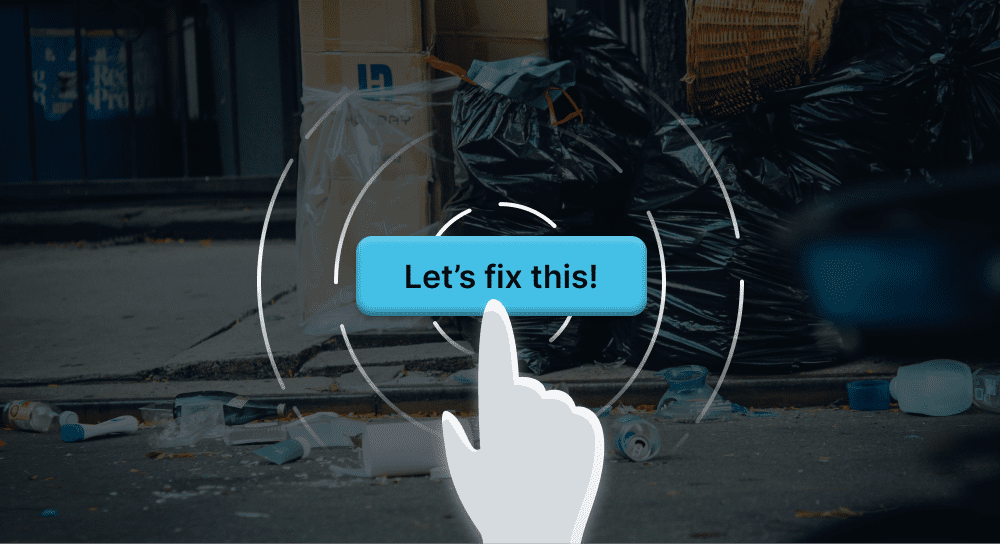
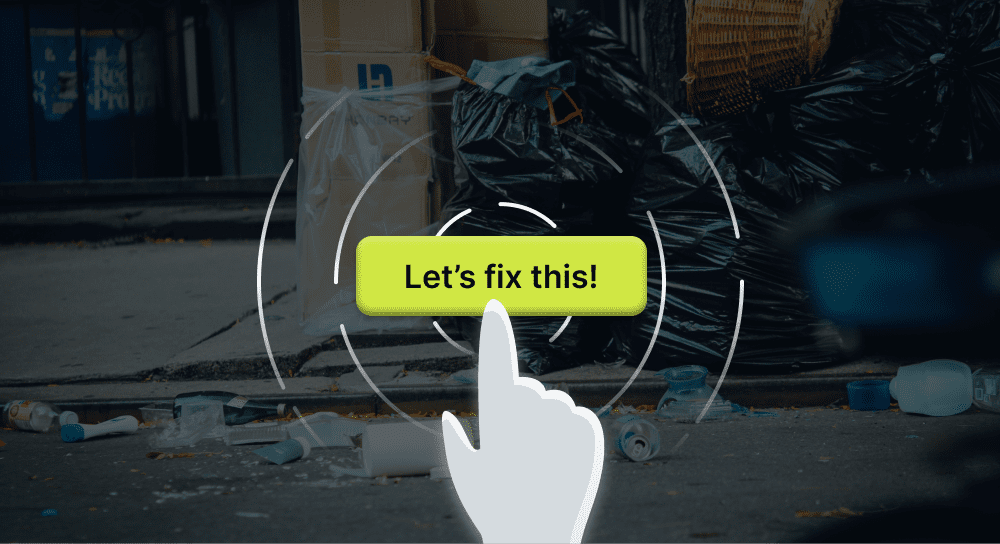
Case Studies // Gredu // Adding template

Changed region(s): [[0.341, 0.4062, 0.651, 0.5938], [0.806, 0.5, 0.868, 0.5312], [0.558, 0.9375, 0.589, 1.0]]

diff --git a/pages/projects/design-system-for-gredu.html b/pages/projects/design-system-for-gredu.html
@@ -62,10 +62,10 @@
         <div class="container behind-cover">
             <div class="one-column">
                 <div class="cover-cs">
-                    <img src="../../images/tba-cover.png" alt="Image cover for waste and recycling management"
+                    <img src="../../images/gredu-cover.png" alt="Image cover for waste and recycling management"
                         class="img-cover">
                 </div>
-                <h1 class="cover-title">Waste and Recycling Management</h1>
+                <h1 class="cover-title">Design System for Gredu (EdTech Platform)</h1>
             </div>
         </div>
 
@@ -75,19 +75,18 @@
                     <div class="section-row">
                         <div class="overview-section">
                             <h3 class="overview-heading">CLIENT</h3>
-                            <p class="overview-desc">TBA</p>
+                            <p class="overview-desc">Gredu</p>
                         </div>
                         <div class="overview-section">
                             <h3 class="overview-heading">MY ROLE</h3>
                             <ul>
-                                <li>User Research</li>
-                                <li>Visual Design</li>
-                                <li>Interaction Design</li>
+                                <li>UI/UX Designer</li>
+                                <li>Design System Team</li>
                             </ul>
                         </div>
                         <div class="overview-section">
                             <h3 class="overview-heading">DURATION</h3>
-                            <p class="overview-desc">4.5 months</p>
+                            <p class="overview-desc">4 months</p>
                         </div>
                         <div class="overview-section">
                             <h3 class="overview-heading">YEAR</h3>
@@ -99,24 +98,21 @@
 
                     <div class="overview-section">
                         <h3 class="overview-heading">PROJECT OVERVIEW</h3>
-                        <p class="overview-desc">Bootstrapped a Startup that focused on waste and recycling
-                            management.<br>The core team are Kenrick Setiobudi (Commercial Lead & PM), Franco Octavianus
-                            (Technology Lead), and Muyas—me (Design, UI & UX Lead).</p>
+                        <p class="overview-desc">Gredu is an EdTech Startup that focused on integrating the school environment for teachers, parents, and students.<br>At that time, we have several products handled by several different designers.<br>In this project, I get in charge of build initial design system along with Project Lead.</p>
                     </div>
 
                     <div class="border-overview"></div>
 
                     <div class="overview-section">
                         <h3 class="overview-heading">MAIN GOAL</h3>
-                        <p class="overview-desc">Find the real problem, prioritise solution to execute in initial, and
-                            MVP of the waste management system.</p>
+                        <p class="overview-desc">Get everything aligned and has a consistent design quality in all product even it handled by different designers.</p>
                     </div>
 
                     <div class="border-overview"></div>
 
                     <div class="overview-section">
                         <h3 class="overview-heading">TOOLS</h3>
-                        <p class="overview-desc">Figma, Marvel, Jira, Confluence, and Adobe Photoshop.</p>
+                        <p class="overview-desc">Sketch App, Abstract, InVision, Jira, Trello, and Miro.</p>
                     </div>
                 </div>
             </div>
@@ -124,91 +120,12 @@
 
         <div class="container no-padding">
             <div class="cs-paragraph">
-                <h3 class="main-title">Understand the root</h3>
-                <p class="sub-title">Sharpen our knowledge using desk research</p>
-                <p class="paragraph-desc">In this initial part, I did desk research with curating information from some
-                    report. The purpose is to get familiar with the problem and find additional data to support the user
-                    interview.</p>
-                    <p class="sub-title">Get to know deeply using user interview</p>
-                    <p class="paragraph-desc">To get things right, I need to know the perspective of each side inside that
-                        involved in waste management—in this case, urban consumer and recycler. With the help of know data
-                        from desk research, I set up the objective to be the focus of observation in the interview.</p>
-                        <p class="paragraph-desc mb-0">Research objective:</p>
-                        <ul>
-                            <li>Understand the urban consumer behaviour in treating rubbish</li>
-                            <li>Understand the recycler behaviour in recycling rubbish</li>
-                        </ul>
+                <h3 class="main-title">Lorem, ipsum dolor</h3>
+                <p class="sub-title">Lorem ipsum dolor sit amet</p>
+                <p class="paragraph-desc">Lorem ipsum dolor sit amet consectetur adipisicing elit. In consequatur nulla eos doloremque minus impedit, odio laboriosam dolorem nemo labore!</p>
             </div>
 
-            <div class="cs-paragraph">
-                <h3 class="main-title">Treat the insight as a trigger to open up ideas</h3>
-                <p class="sub-title">Spot the insight using affinity mapping</p>
-                <p class="paragraph-desc">After did desk research and user interview, I tried to connect findings and key findings to find the insights. This session really helps us to know what happened in the field and why it happened to give a useful recommendation for next phase.</p>
-            </div>
-            <img src="../../images/tba-03-affinity-mapping.png" alt="Image: affinity mapping" class="img-artefact">
-
-            <div class="cs-paragraph">
-                <p class="sub-title">Reframe the insight as standardized challenges using How Might We (HMW) approach
-                </p>
-                <p class="paragraph-desc">From the insights that we have found, I tried to let us open for any possibility to innovate using How Might We (HMW) approach.</p>
-            </div>
-            <img src="../../images/tba-04-hmw.png" alt="Image: how might we" class="img-artefact">
-
-            <div class="cs-paragraph">
-                <h3 class="main-title">Prioritise solution to execute on</h3>
-                <p class="paragraph-desc">By answering the HMW, I ended up with some ideas. Then, I prioritised some ideas to be solved in MVP by considering the impact and effort.
-                </p>
-                <p class="paragraph-desc mb-0">In estimating the impact and effort, we focused on these indicators below:</p>
-                <ul>
-                    <li>Usability</li>
-                    <li>Design</li>
-                    <li>Development</li>
-                    <li>Business goal</li>
-                </ul>
-                <p class="paragraph-desc"><i><b>Note:</b> If you see some blurry image below, it’s not your browser or your eyes. It’s me hiding some future strategy.</i>
-                </p>
-            </div>
-            <img src="../../images/tba-05-impact-effort.png" alt="Image: prioritise with impact and effort"
-                class="img-artefact">
-
-            <div class="cs-paragraph">
-                <h3 class="main-title">The MVP Product</h3>
-                <p class="paragraph-desc">Take some steps forward, I came up with this prototype for our MVP after did some experiment for the most delightful experience that matches with our first adopter.</p>
-                <p class="sub-title">Why a mobile app?
-                </p>
-                <p class="paragraph-desc">In this MVP, we focused on our first time adopter—urban consumer. We got some data that this group of people have a lot of time interacting with smartphone. So, we tried to encourage them to join along in solving this problem. Also, we believe this would work because we provide a reward scheme for each rubbish they recycle.</p>
-                <p class="sub-title">Dark mode version
-                </p>
-                <p class="paragraph-desc">This fancy dark mode version is our approach to tell everyone about our identity as a company that wanna solve this issue with technology.</p>
-                <p class="paragraph-desc"><i><b>Note:</b> We covered Android and iOS app version, but I only showcasing the iOS version at this time.</i></p>
-            </div>
-            <img src="../../images/tba-ui-01.png" alt="Image: TBA prototype - user onboarding" class="img-artefact">
-            <img src="../../images/tba-ui-02.png" alt="Image: TBA prototype - home (for first time user)" class="img-artefact">
-            <img src="../../images/tba-ui-03.png" alt="Image: TBA prototype - search for collection point to recycle" class="img-artefact">
-            <img src="../../images/tba-ui-04.png" alt="Image: TBA prototype - process of recycling and earning points" class="img-artefact">
-            <img src="../../images/tba-ui-05.png" alt="Image: TBA prototype - points & rewards" class="img-artefact">
-
-            <div class="cs-paragraph">
-                <h3 class="main-title">Outcomes</h3>
-                <ol>
-                    <li>A valid problem that need to solve based on research from real user.</li>
-                    <li>The MVP Product with strong identity.</li>
-                    <li>Insight from usability test (published soon).</li>
-                </ol>
-            </div>
-
-            <div class="cs-paragraph">
-                <h3 class="main-title">Learnings</h3>
-                <ol>
-                    <li>The desk research really helps us to sharpen our knowledge about the topic.</li>
-                    <li>Knowing from user help us see a lot of perspectives and something we never know about the real
-                        condition in the field. It prevents us to solve the wrong problem.</li>
-                    <li>The way to probing in the interview and connecting findings become insights are the most crucial
-                        part that leads us to solve the right problem.</li>
-                    <li>Knowing the target user behaviour can help you decide the kind platform that can be the best
-                        suit for providing the solution.</li>
-                </ol>
-            </div>
+            <img src="../../images/cs-img.png" alt="Image: tbc" class="img-artefact">
 
         </div>
 

diff --git a/pages/projects.html b/pages/projects.html
@@ -69,14 +69,14 @@
                     <h3 class="article-title">Waste and Recycling Management</h3>
                     <p class="article-desc">Challenging the cultural perception in treating rubbish. Full remote work.</p>
                 </a>
-                <a href="#" class="card-article">
+                <a href="projects/design-system-for-gredu.html" class="card-article">
                     <div class="card-image">
-                        <img src="../images/cs-img.png" alt="" class="img-article">
+                        <img src="../images/gredu-cover.png" alt="" class="img-article">
                         <div class="dim-overlay"></div>
                     </div>
                     <p class="article-year">2020</p>
-                    <h3 class="article-title">In progress Lorem ipsum dolor sit amet</h3>
-                    <p class="article-desc">In progress Lorem ipsum dolor sit amet consectetur adipisicing elit.</p>
+                    <h3 class="article-title">Design System for Gredu (EdTech Platform)</h3>
+                    <p class="article-desc">Synchronizing design quality for each product in environment.</p>
                 </a>
                 <a href="#" class="card-article">
                     <div class="card-image">

diff --git a/index.html b/index.html
@@ -84,14 +84,14 @@
                     <p class="article-desc">Challenging the cultural perception in treating rubbish. Full remote work.
                     </p>
                 </a>
-                <a href="#" class="card-article">
+                <a href="pages/projects/design-system-for-gredu.html" class="card-article">
                     <div class="card-image">
-                        <img src="images/cs-img.png" alt="" class="img-article">
+                        <img src="images/gredu-cover.png" alt="" class="img-article">
                         <div class="dim-overlay"></div>
                     </div>
                     <p class="article-year">2020</p>
-                    <h4 class="article-title">In progress Lorem ipsum dolor sit amet</h4>
-                    <p class="article-desc">In progress Lorem ipsum dolor sit amet consectetur adipisicing elit.</p>
+                    <h4 class="article-title">Design System for Gredu (EdTech Platform)</h4>
+                    <p class="article-desc">Synchronizing design quality for each product in environment.</p>
                 </a>
                 <a href="#" class="card-article">
                     <div class="card-image">
